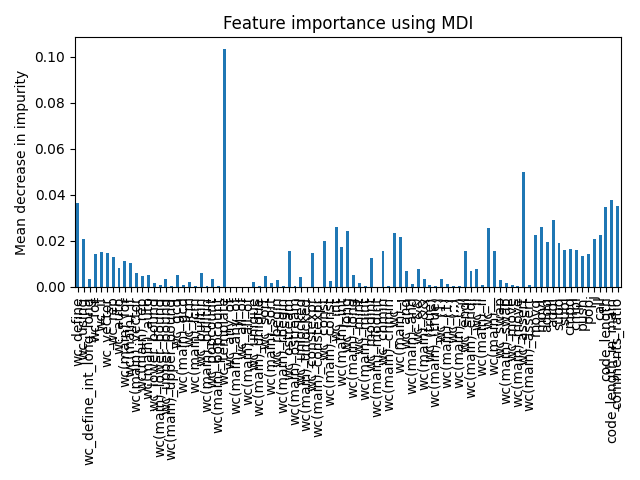
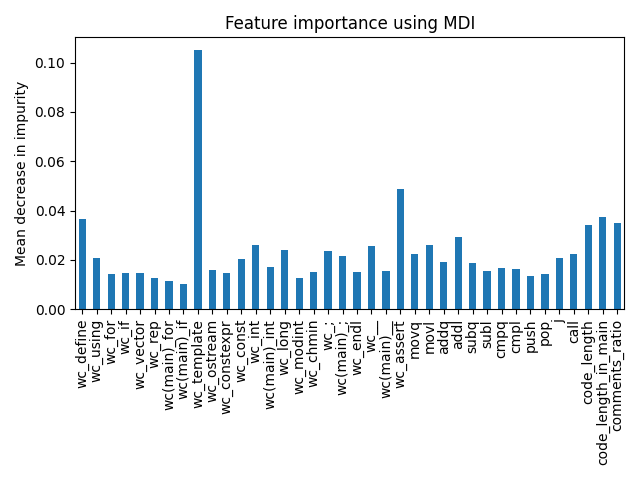
特徴量重要度グラフの修正など

Changed region(s): [[0.0, 0.0938, 1.0, 0.9688], [0.3438, 0.0312, 0.75, 0.0625]]

diff --git a/src/bin/random_forest.py b/src/bin/random_forest.py
@@ -54,6 +54,8 @@ def create_and_train_model() -> RandomForestRegressor:
         rf.feature_importances_, index=list(map(lambda t: t[1], characteristics))
     )
 
+    forest_importance = forest_importance[forest_importance >= 0.01]
+
     fig, ax = plt.subplots()
     forest_importance.plot.bar(ax=ax)
     ax.set_title("Feature importance using MDI")

diff --git a/src/bin/random_forest_based_person.py b/src/bin/random_forest_based_person.py
@@ -77,6 +77,8 @@ def create_and_train_model() -> RandomForestRegressor:
         rf.feature_importances_, index=list(map(lambda t: t[1], characteristics))
     )
 
+    forest_importance = forest_importance[forest_importance >= 0.01]
+
     fig, ax = plt.subplots()
     forest_importance.plot.bar(ax=ax)
     ax.set_title("Feature importance using MDI")
